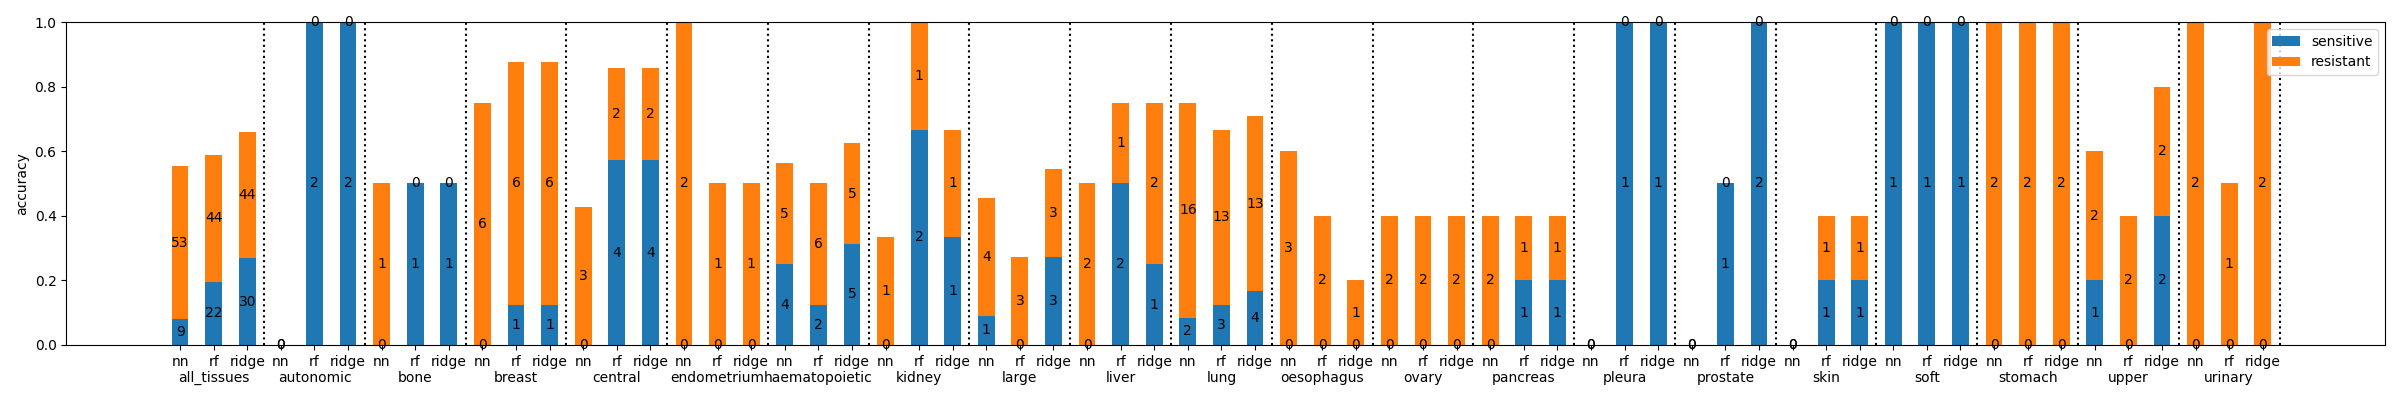
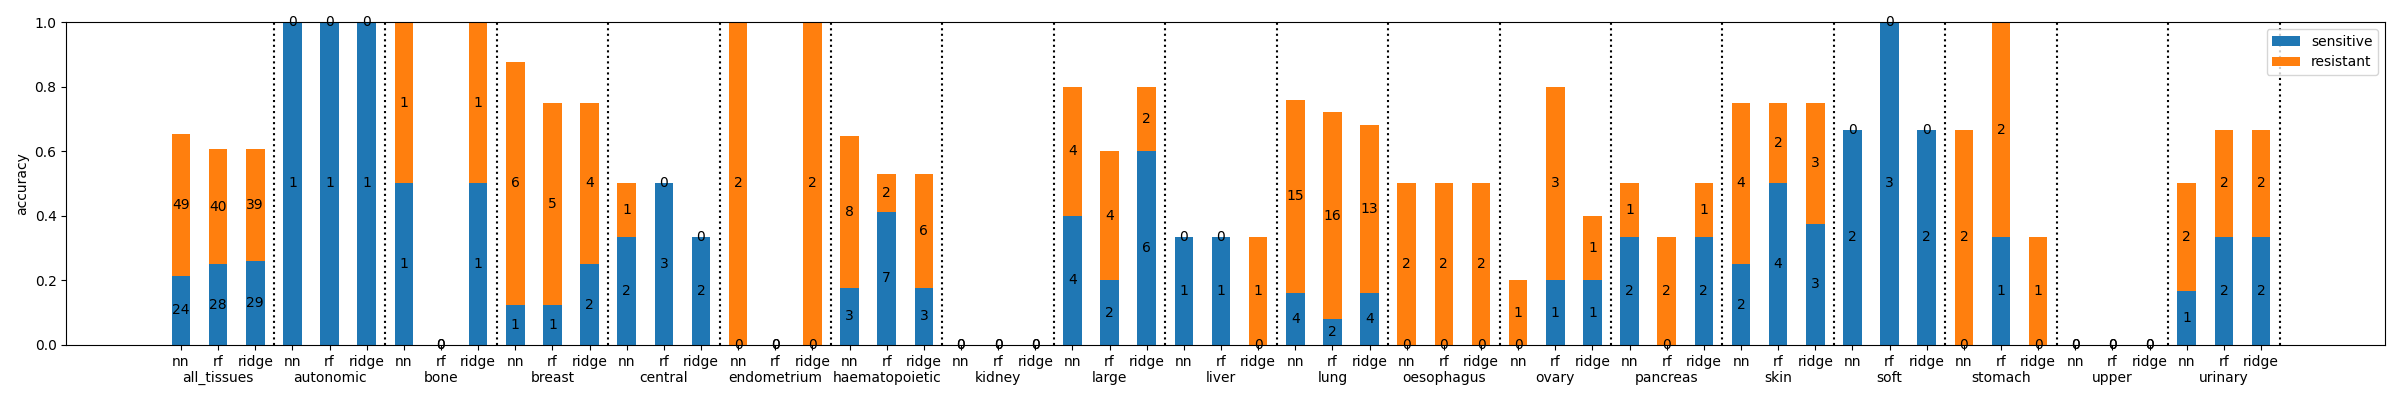
fix rocauc plot

diff --git a/src/mlquiades/utils/processing.py b/src/mlquiades/utils/processing.py
@@ -6,6 +6,7 @@ import matplotlib.pyplot as plt
 from sklearn.preprocessing import StandardScaler
 from sklearn.model_selection import train_test_split
 from imblearn.over_sampling import RandomOverSampler
+from . import *
 
 def pearson(
         X_train_, X_val_, X_test, y_train_):
@@ -35,7 +36,6 @@ def cdk4_6_genes(
     genes = pd.read_csv(data_dir + genes_file, header=None).iloc[:,0].to_list()
     genes = [x.lower() for x in genes]
     x = pd.DataFrame([x.split('_')[0] for x in df.columns])
-    print(x.isin(['label', 'cell line', 'Tissue'] + genes))
     x = df.columns[x.isin(['label', 'cell line', 'Tissue'] + genes)[0]]
     df = df.loc[:, x]
 
@@ -57,49 +57,6 @@ def cdk4_6_cancer_genes(
     df_ = df_.loc[:, x]
     
     return df
-
-def plot_split(df, output_dir):
-    '''
-    Plot the split for training, validation and testing data with respect to the
-    number of sensitive and resistant cancer cell lines in each tissue type.
-    '''
-    
-    fig,ax = plt.subplots(3,1, figsize=(15,10))
-    
-    p1 = sns.barplot(ax=ax[0], data=df[df['train_val_test']=='train'], x='tissue', 
-                     y='value', hue='variable', palette=sns.color_palette('icefire'))
-    p1.bar_label(p1.containers[0])
-    p1.bar_label(p1.containers[1])
-    p1.set_title('TRAIN')
-    p1.set_xlabel('')
-    p1.set_ylim(top=df['value'].max()+5)
-    p1.set_ylabel('# of cell lines')
-    p1.set_xticklabels(p1.get_xticklabels(), rotation=45)
-    
-    p2 = sns.barplot(ax=ax[1], data=df[df['train_val_test']=='val'], x='tissue',
-                     y='value', hue='variable', palette=sns.color_palette('icefire'))
-    p2.bar_label(p2.containers[0])
-    p2.bar_label(p2.containers[1])
-    p2.set_title('VAL')
-    p2.set_xlabel('')
-    p2.set_ylim(top=df['value'].max()+5)
-    p2.set_ylabel('# of cell lines')
-    p2.set_xticklabels(p2.get_xticklabels(), rotation=45)
-    
-    p3 = sns.barplot(ax=ax[2], data=df[df['train_val_test']=='test'], x='tissue',
-                     y='value', hue='variable', palette=sns.color_palette('icefire'))
-    p3.bar_label(p3.containers[0])
-    p3.bar_label(p3.containers[1])
-    p3.set_title('TEST')
-    p3.set_xlabel('tissue type')
-    p3.set_ylim(top=df['value'].max()+5)
-    p3.set_ylabel('# of cell lines')
-    p3.set_xticklabels(p3.get_xticklabels(), rotation=45)
-    
-    plt.tight_layout()
-    plt.savefig(output_dir + '/all_tissues/data_split.png')
-    
-    return
 
 def split_scale_data(
         data_dir, output_dir, df, feature_selection, ros=True, 
@@ -233,7 +190,7 @@ def split_scale_data(
                                          value_vars=['sensitive', 'resistant'])
     grouped = pd.concat([all_tissues_df, grouped])
     
-    plot_split(grouped, output_dir)
+    plot_split(grouped, feature_selection, output_dir)
     
     if ros:
         ros = RandomOverSampler(random_state=0)